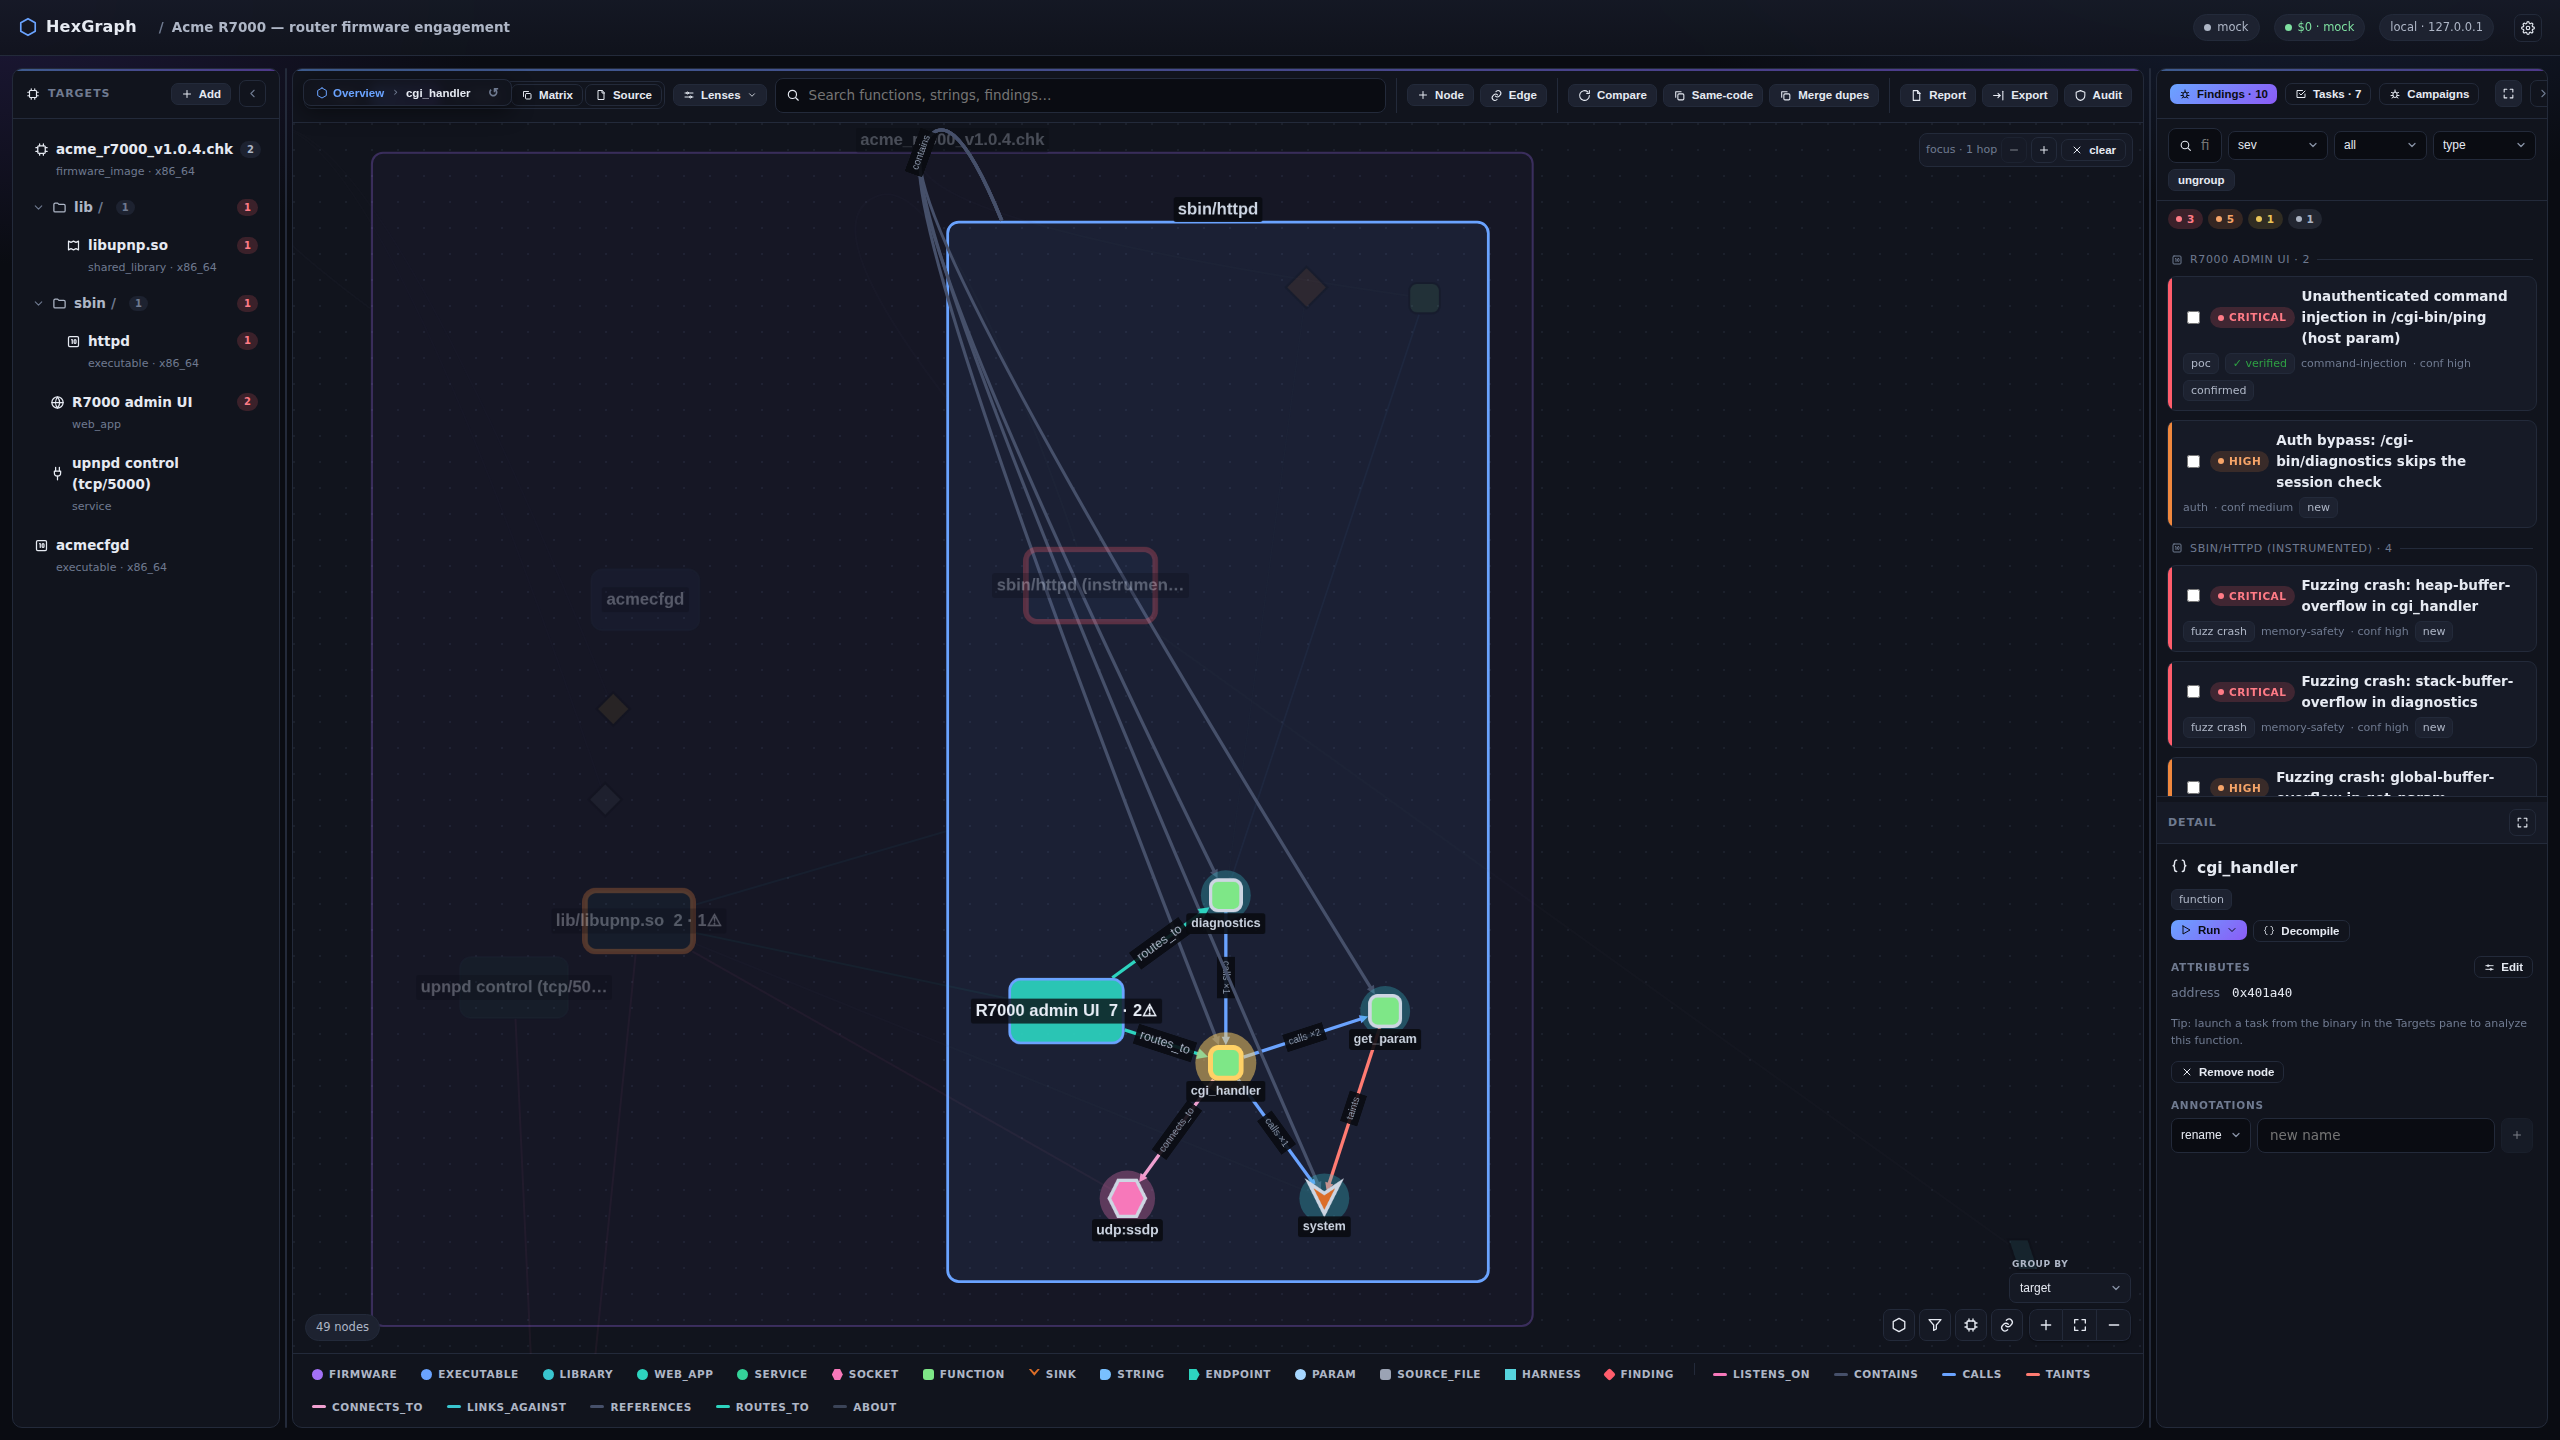
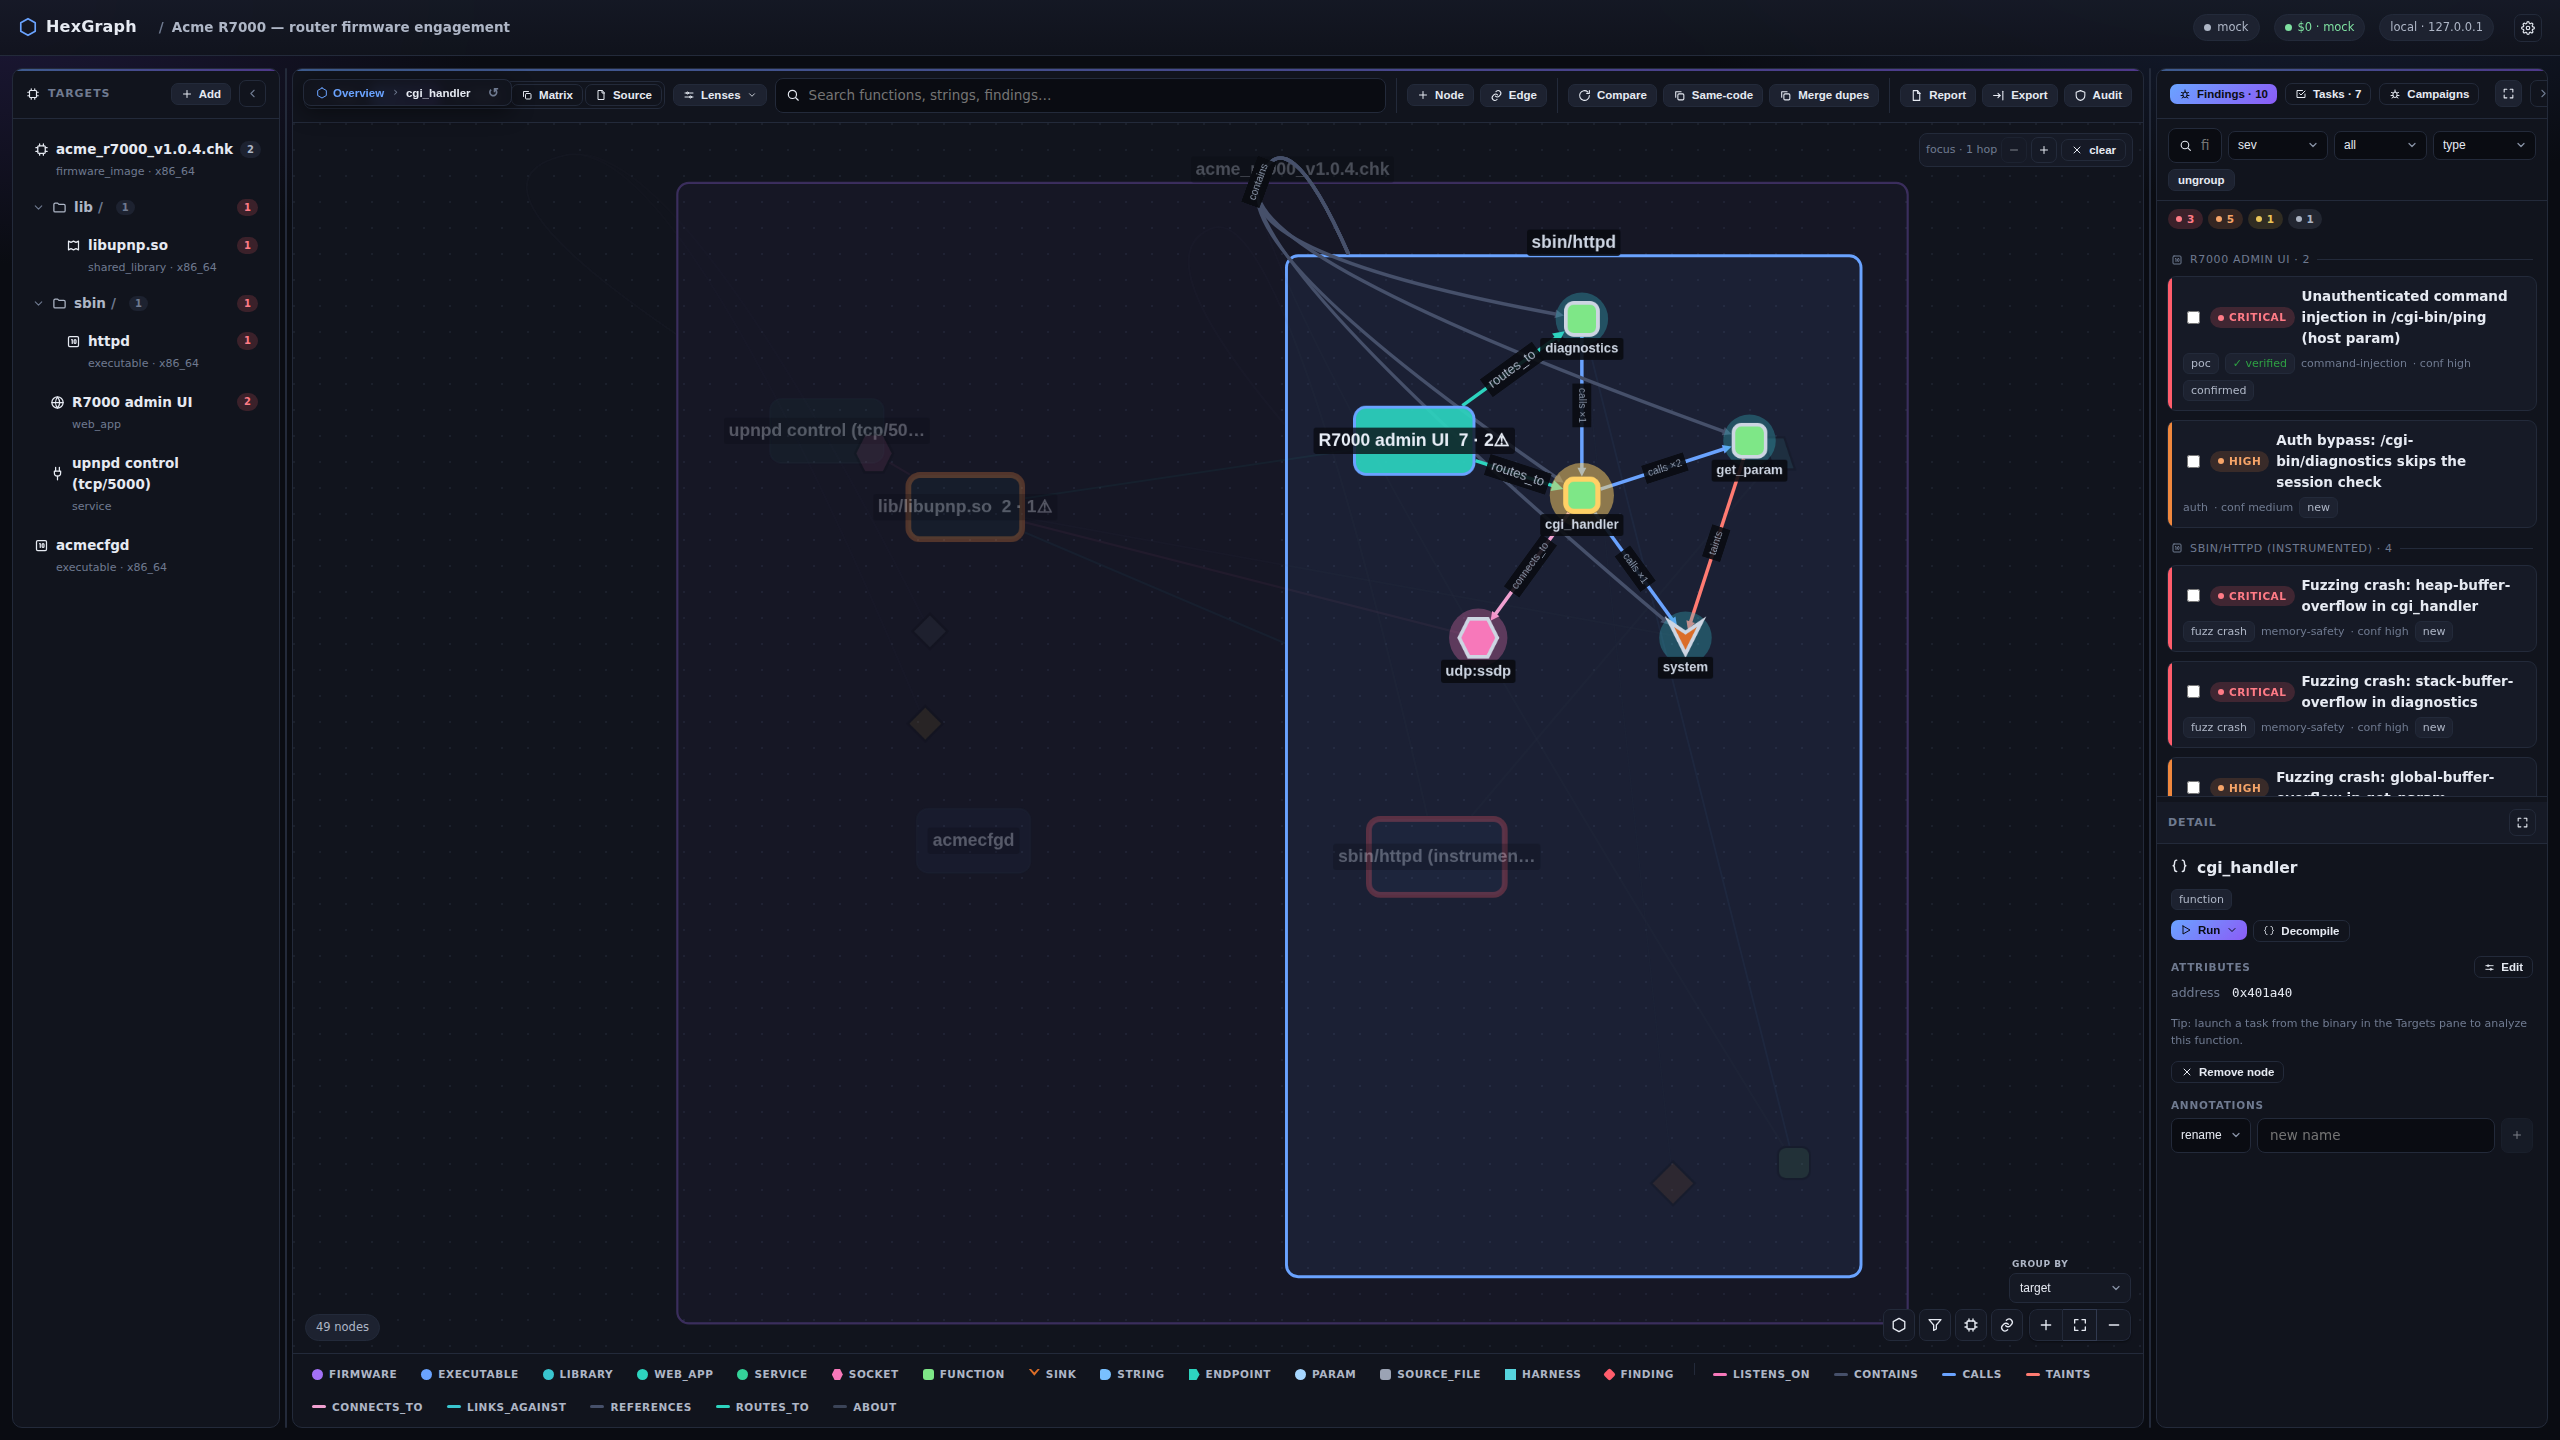
fix(capture): tightly frame the hero graph screenshot
The README hero (docs/images/graph.png) was zoomed out because fcose tiles
the firmware's loosely-connected island nodes — the network-bus sockets
(target_id=None, no compound parent) and a lone fuzz-harness file — far from
the room cluster, which forces Fit to zoom out and shrinks the graph.

Two fixes in scripts/capture_screenshots.py:

- The graph 'Fit' control was never actually clicking: _fit_graph targeted
  button[title='Fit'] but the real control is titled 'Fit to view'. The
  failed click raised and (sharing the try block with the zoom-in loop)
  aborted both, silently swallowed — so the hero was never fit or zoomed,
  just left on the post-selection focus frame. Fixed the selector and let
  the error surface instead of vanishing.

- Added _COMPACT_ISLANDS_JS: before fitting, clamp every parentless, non-room
  leaf node into the bounding box of the room structure (+90px margin),
  pulling the sockets and harness file back into the cluster. It leaves the
  compound rooms untouched, only nudges live Cytoscape positions (never the
  product layout), and recomputes the box at capture time so it's robust to
  fcose's per-run randomization.

Dropped the per-shot zoom_in from 2 to 0 on both hero shots: after compaction
a bare Fit already fills the canvas, and extra zoom clipped randomly-placed
rooms at the frame edge. Regenerated graph.png and graph-selected.png.

Dev-only tooling + doc images; capture_screenshots.py is a standalone script,
[…]

diff --git a/scripts/capture_screenshots.py b/scripts/capture_screenshots.py
@@ -82,18 +82,50 @@ async def _shoot(page, name: str) -> None:
     print(f"  ✓ {name}")
 
 
+# Pull the loosely-connected island nodes back toward the main cluster so the hero frames
+# TIGHTLY. fcose tiles disconnected / low-degree islands far out — the firmware's network-bus
+# sockets (target_id=None, no compound parent) and a lone fuzz-harness file float way above /
+# beside the room cluster, which forces Fit to zoom out and shrinks the graph in the canvas.
+# We clamp every PARENTLESS, non-room leaf node into the bounding box of the room structure
+# (+ a margin), leaving the legitimate compound rooms untouched. This is a screenshot-only
+# nudge of the live Cytoscape positions — it never touches the product's layout code, and it
+# is robust to fcose's per-run randomization because it recomputes the box at capture time.
+_COMPACT_ISLANDS_JS = """(margin) => {
+  let cy = null;
+  document.querySelectorAll('*').forEach(el => { if (el._cyreg && el._cyreg.cy) cy = el._cyreg.cy; });
+  if (!cy) return 'no-cy';
+  const core = cy.nodes(':visible').filter(n => n.data('gtype') === 'room' || n.parent().nonempty());
+  if (core.length === 0) return 'no-core';
+  const bb = core.boundingBox();
+  const islands = cy.nodes(':visible').filter(n => n.data('gtype') !== 'room' && n.parent().empty());
+  const moved = [];
+  islands.forEach(n => {
+    const p = n.position();
+    const nx = Math.max(bb.x1 + margin, Math.min(bb.x2 - margin, p.x));
+    const ny = Math.max(bb.y1 + margin, Math.min(bb.y2 - margin, p.y));
+    if (nx !== p.x || ny !== p.y) { n.position({ x: nx, y: ny }); moved.push(n.data('label')); }
+  });
+  return 'compacted: ' + (moved.join(', ') || '(none)');
+}"""
+
+
 async def _fit_graph(page, zoom_in: int = 0) -> None:
-    """Click the graph 'Fit' control so the whole graph is framed nicely. `zoom_in` then clicks
-    the zoom-in control that many times so the nodes read LARGER (at 1440p a bare fit leaves the
-    graph small in the roomy canvas) while staying centred on the fitted graph."""
+    """Compact the outlier island nodes, then click the graph 'Fit to view' control so the
+    whole graph is framed nicely and tightly. After compaction a bare fit already fills the
+    canvas, so `zoom_in` (extra zoom-in clicks) defaults to 0 — bumping it risks clipping a
+    randomly-far room at the frame edge. Errors are swallowed so a control rename never aborts
+    a capture run silently leaving the graph un-framed."""
     try:
-        await page.click("button[title='Fit']", timeout=2500)
+        result = await page.evaluate(_COMPACT_ISLANDS_JS, 90)
+        print(f"  · {result}")
+        await page.wait_for_timeout(300)
+        await page.click("button[title='Fit to view']", timeout=2500)
         await page.wait_for_timeout(700)
         for _ in range(zoom_in):
             await page.click("button[title='Zoom in']", timeout=2000)
             await page.wait_for_timeout(250)
-    except Exception:
-        pass
+    except Exception as e:
+        print(f"  ! _fit_graph: {e}")
 
 
 async def _capture(base: str, pid: str) -> None:
@@ -133,7 +165,7 @@ async def _capture(base: str, pid: str) -> None:
         # re-fit so the whole graph is re-centered and clears the bottom-right controls (a fit
         # mid-animation leaves it off-centre and bleeding under the control cluster).
         await pg.wait_for_timeout(1300)
-        await _fit_graph(pg, zoom_in=2)
+        await _fit_graph(pg)
         await pg.wait_for_timeout(800)
         await _shoot(pg, "graph.png")
 
@@ -153,7 +185,7 @@ async def _capture(base: str, pid: str) -> None:
                 return False
 
         await search_select("cgi_handler", "cgi_handler")
-        await _fit_graph(pg, zoom_in=2)
+        await _fit_graph(pg)
         await pg.wait_for_timeout(600)
         await _shoot(pg, "graph-selected.png")
 